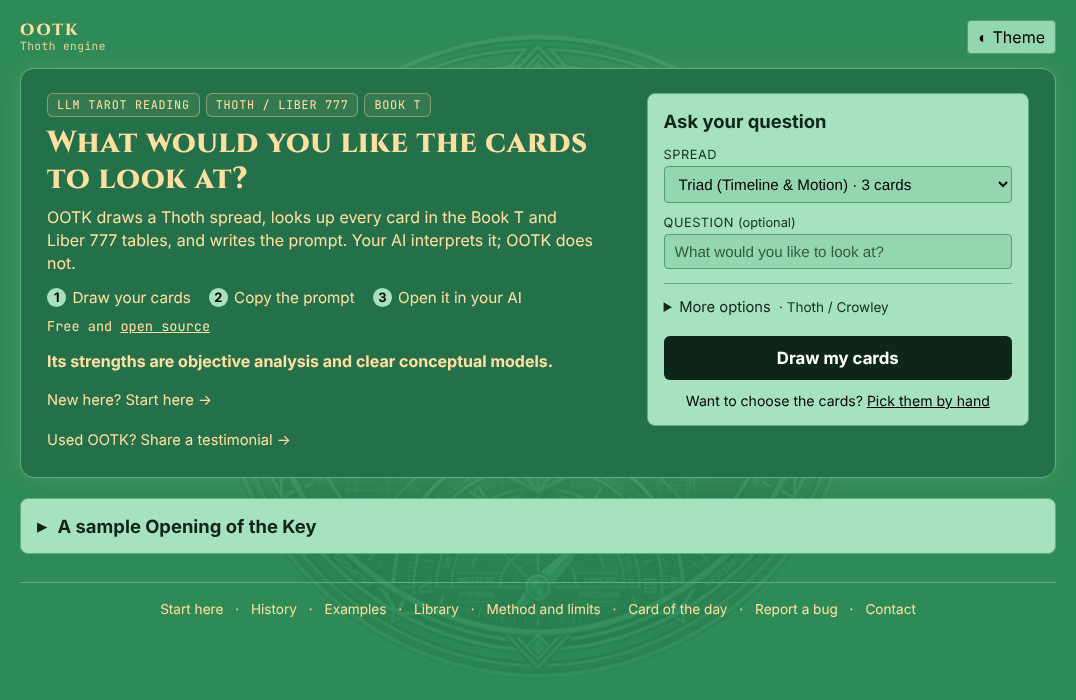
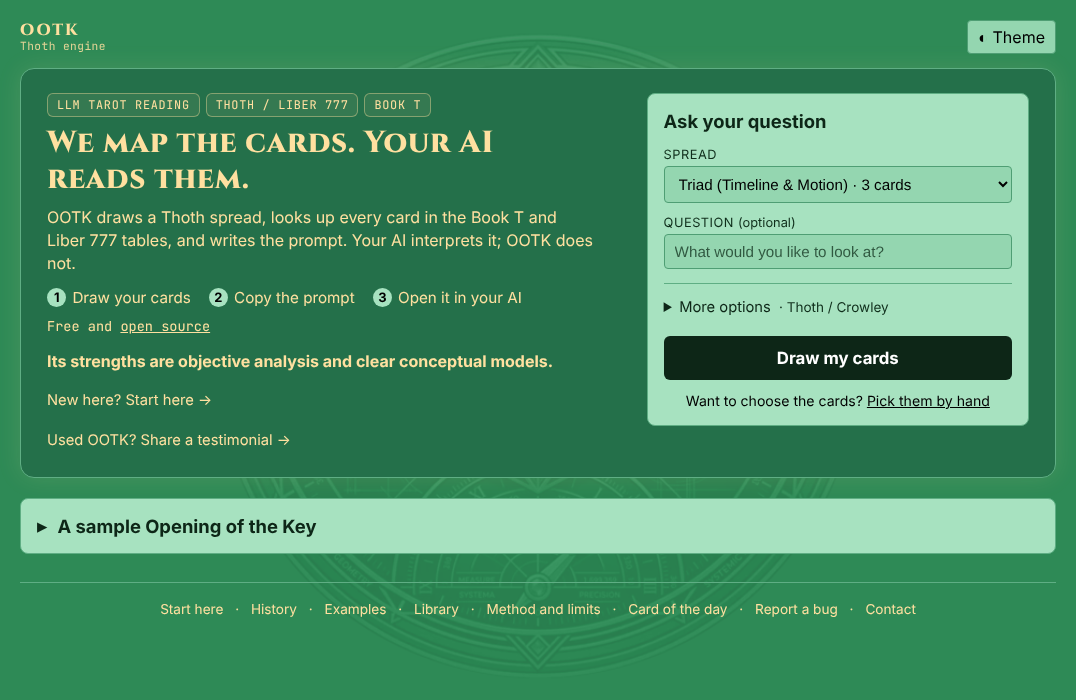
Front page headline: We map the cards. Your AI reads them.
Claude-Session: https://claude.ai/code/session_011CMjDk8e1YjBynZ6pwH7KF

Changed region(s): [[0.0307, 0.18, 0.552, 0.27]]

diff --git a/templates/index.html b/templates/index.html
@@ -143,7 +143,7 @@
     <section class="band" aria-labelledby="pageTitle">
         <div class="band-text">
             <p class="chips"><span>LLM Tarot Reading</span><span>Thoth / Liber 777</span><span>Book T</span></p>
-            <h1 id="pageTitle">What would you like the cards to look&nbsp;at?</h1>
+            <h1 id="pageTitle">We map the cards. Your AI reads&nbsp;them.</h1>
             <p class="tagline">OOTK draws a Thoth spread, looks up every card in the Book&nbsp;T and Liber&nbsp;777 tables, and writes the prompt. Your AI interprets it; OOTK does not.</p>
             <ol class="steps" aria-label="How it works">
                 <li><span>1</span> Draw your cards</li>

diff --git a/tests/test_app_and_engine.py b/tests/test_app_and_engine.py
@@ -1291,6 +1291,7 @@ def test_testimonial_with_a_nul_character_is_refused(client):
 def test_start_page_first_screen_says_who_it_is_for_and_what_to_do(client):
     page = client.get("/").text
     assert "Your AI interprets it; OOTK does not." in page
+    assert "We map the cards. Your AI reads&nbsp;them." in page
     assert "ChatGPT" not in page and "For tarot readers" not in page
     assert 'id="readingForm"' in page and 'class="btn-cta"' not in page
     assert "Draw my cards" in page and "<h2>Ask your question</h2>" in page

diff --git a/README.md b/README.md
@@ -6,7 +6,7 @@
 
 **Try it online: [ootk.onrender.com](https://ootk.onrender.com)** (free hosting, so the first visit after a quiet spell takes about a minute to wake up). Card images there are Pamela Colman Smith's public-domain 1909 Rider-Waite-Smith art, because the Thoth paintings are copyrighted.
 
-![The start page: the question "What would you like the cards to look at?", the three steps (draw your cards, copy the prompt, open it in your AI) and the "Ask your question" panel with its Draw my cards button, then the folded sample Opening of the Key](docs/images/front.png)
+![The start page: the headline "We map the cards. Your AI reads them.", the three steps (draw your cards, copy the prompt, open it in your AI) and the "Ask your question" panel with its Draw my cards button, then the folded sample Opening of the Key](docs/images/front.png)
 
 A Hermetic tarot calculation and analytical engine built around the 78-card Thoth deck, Liber 777 correspondences, and Tree of Life spatial/Platonic geometry.
 
